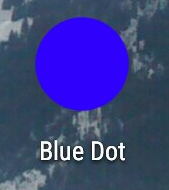
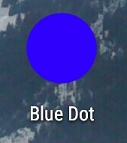
doc updates

diff --git a/clients/android/README.rst b/clients/android/README.rst
@@ -40,7 +40,7 @@ Start
    :alt: blue dot app devices list
 
 .. |bluedotappicon| image:: https://raw.githubusercontent.com/martinohanlon/BlueDot/master/docs/images/bluedotandroidicon.png
-   :height: 190 px
-   :width: 169 px
+   :height: 143 px
+   :width: 127 px
    :scale: 100 %
    :alt: blue dot icon
